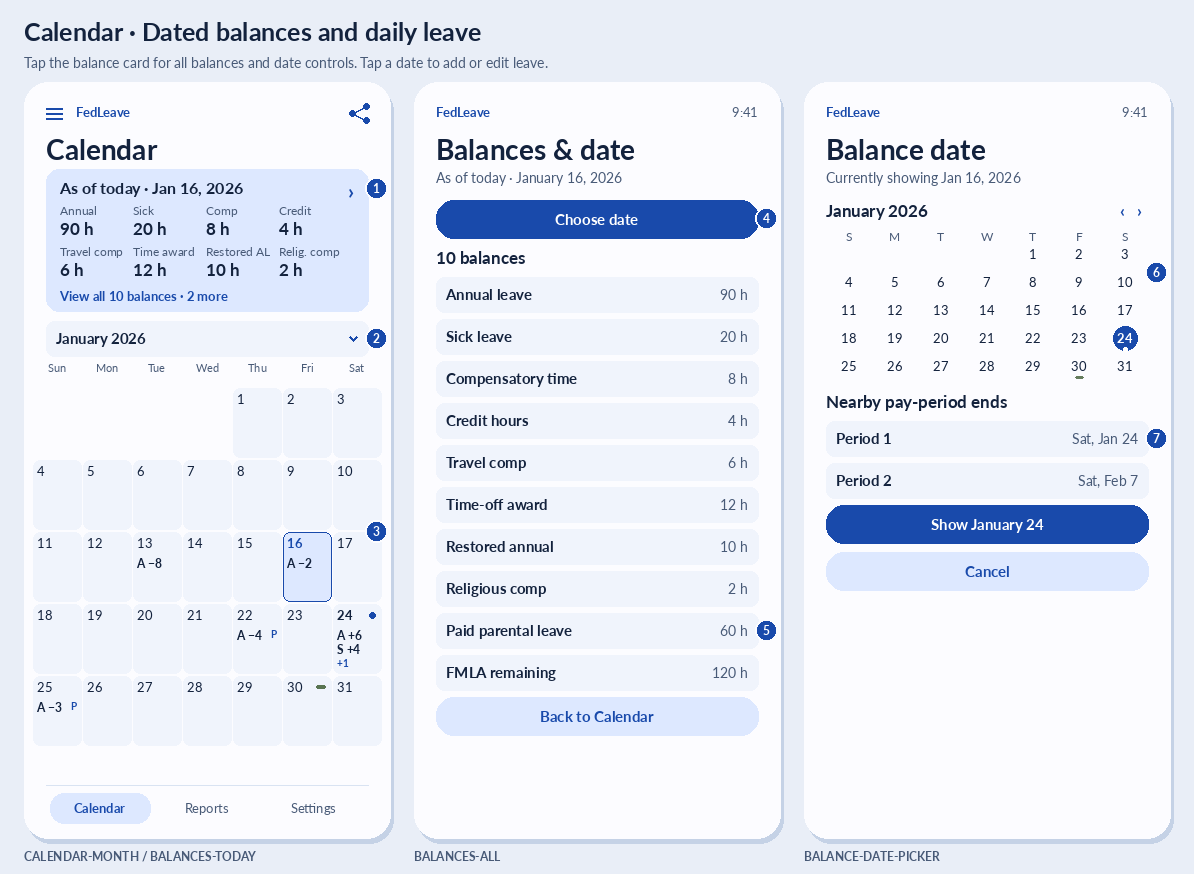
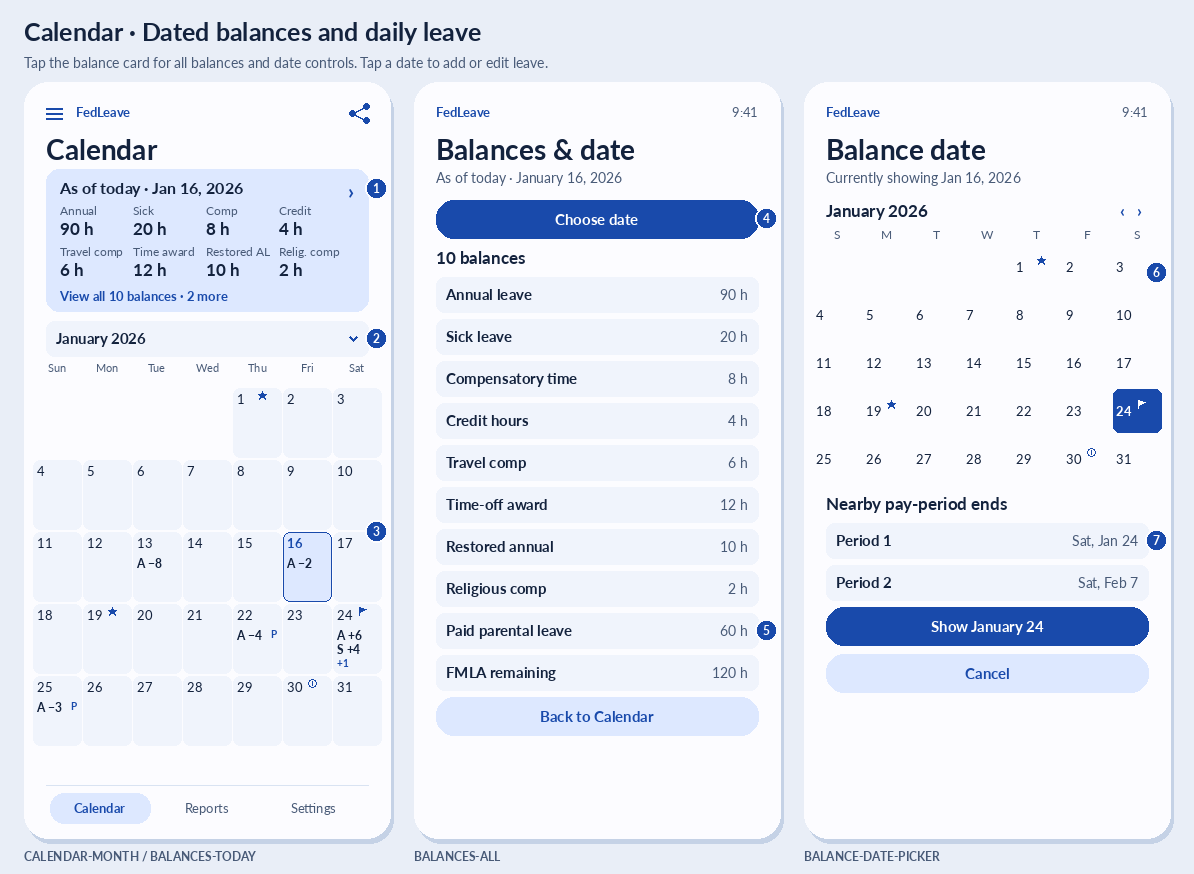
Specify and illustrate Android Calendar date markers
Place holiday, payday, pay-period end and leave-year end symbols beside the date in the month grid and picker. Keep overlapping events distinct and carry their full descriptions into the day view and TalkBack.

Define saved schedule and local holiday sources, Calendar visibility preferences, accessible fallbacks, and the four-event collision case. Remove the phone Calendar legend and retain the desktop-equivalent shared report with its printed legend.

Verified the four-mark collision image, 25 reproducible boards, 51 parity and acceptance pairs, 459 links, and a full desktop suite with 1,013 passes and 3 skips.

Changed region(s): [[0.6817, 0.3398, 0.9916, 0.8032]]

diff --git a/android/specficaiton/mockups/render.py b/android/specficaiton/mockups/render.py
@@ -215,33 +215,53 @@ class Screen:
         self.mark(item.get("note"), y + 18)
         self.cursor += page.height + 24
 
+    def day_markers(self, item, day, x, y, color=PRIMARY):
+        keys = ("holidays", "paydays", "ends", "year_ends")
+        visible = [key for key in keys if day in item.get(key, ())]
+        for index, key in enumerate(visible):
+            row, column = divmod(index, 2)
+            self.day_marker(key, x + column * 11, y + row * 11, color)
+
+    def day_marker(self, key, x, y, color):
+        if key == "holidays":
+            self.draw.polygon(
+                ((x + 4, y), (x + 5, y + 3), (x + 8, y + 3), (x + 6, y + 5), (x + 7, y + 8),
+                 (x + 4, y + 6), (x + 1, y + 8), (x + 2, y + 5), (x, y + 3), (x + 3, y + 3)),
+                fill=color,
+            )
+        elif key == "paydays":
+            self.draw.ellipse((x, y, x + 8, y + 8), outline=color)
+            self.draw.line((x + 4, y + 2, x + 4, y + 6), fill=color)
+        elif key == "ends":
+            self.draw.line((x + 1, y, x + 1, y + 8), fill=color)
+            self.draw.polygon(((x + 2, y), (x + 8, y + 2), (x + 2, y + 5)), fill=color)
+        elif key == "year_ends":
+            self.draw.rectangle((x, y + 1, x + 8, y + 8), outline=color)
+            self.draw.line((x + 2, y, x + 2, y + 2), fill=color)
+            self.draw.line((x + 6, y, x + 6, y + 2), fill=color)
+            self.draw.line((x + 2, y + 5, x + 4, y + 7, x + 6, y + 4), fill=color)
+
     def calendar(self, item):
         y = self.cursor
         self.text(self.left, y, item["text"], 17, bold=True)
         self.text(self.inner_right - 6, y, "‹   ›", 17, PRIMARY, bold=True, anchor="ra")
-        step = self.width // 7
-        first_row = y + 54
+        left = self.x + 8
+        step = (PHONE_WIDTH - 16) // 7
+        first_row = y + 44
         for column, label in enumerate(("S", "M", "T", "W", "T", "F", "S")):
-            self.text(self.left + step * column + step // 2, y + 36, label, 12, MUTED, anchor="mm")
-        marks = item.get("ends", [])
-        paydays = item.get("paydays", [])
-        for number in range(1, item.get("days", 31) + 1):
-            row, column = divmod(item["start"] + number - 1, 7)
-            x = self.left + step * column + step // 2
-            cell_y = first_row + row * 28
-            active = number == item.get("selected")
+            self.text(left + step * column + step // 2, y + 34, label, 12, MUTED, anchor="mm")
+        for day in range(1, item.get("days", 31) + 1):
+            row, column = divmod(item["start"] + day - 1, 7)
+            x = left + step * column
+            cell_y = first_row + row * 48
+            active = day == item.get("selected")
             if active:
-                self.draw.ellipse((x - 12, cell_y - 12, x + 12, cell_y + 12), fill=PRIMARY)
-            self.text(x, cell_y, str(number), 13, "#FFFFFF" if active else INK, number in marks, "mm")
-            if number in marks:
-                self.draw.ellipse((x - 2, cell_y + 9, x + 2, cell_y + 13), fill="#FFFFFF" if active else PRIMARY)
-            if number in paydays:
-                self.box(x - 4, cell_y + 10, x + 4, cell_y + 12, "#FFFFFF" if active else "#667D5E", 1)
-        self.mark(item.get("note"), first_row + 18)
-        self.cursor = first_row + 28 * ((item["start"] + item.get("days", 31) - 1) // 7) + 25
-        legend = "●  Pay-period end      ▬  Payday" if paydays else "●  Pay-period end"
-        if item.get("show_legend", True):
-            self.paragraph({"text": item.get("legend", legend)}, 12, MUTED, padding=8)
+                self.box(x + 1, cell_y + 1, x + step - 1, cell_y + 44, PRIMARY, 6)
+            self.text(x + 4, cell_y + 15, str(day), 13, "#FFFFFF" if active else INK, bold=active)
+            self.day_markers(item, day, x + 25, cell_y + 12, "#FFFFFF" if active else PRIMARY)
+        self.mark(item.get("note"), first_row + 28)
+        row_count = (item["start"] + item.get("days", 31) + 6) // 7
+        self.cursor = first_row + 48 * row_count + 9
 
     def activity_calendar(self, item):
         left = self.x + 8
@@ -252,8 +272,6 @@ class Screen:
             x = left + column * column_width + column_width // 2
             self.text(x, self.cursor + 5, label, 11, MUTED, anchor="mm")
 
-        period_ends = set(item.get("ends", []))
-        paydays = set(item.get("paydays", []))
         activity = item.get("activity", {})
         for day in range(1, item["days"] + 1):
             row, column = divmod(item["start"] + day - 1, 7)
@@ -265,11 +283,8 @@ class Screen:
                 self.draw.rounded_rectangle(
                     (x + 1, y + 1, x + column_width - 1, y + row_height - 2), 7, outline=PRIMARY, width=1,
                 )
-            self.text(x + 5, y + 4, str(day), 13, PRIMARY if today else INK, today or day in period_ends)
-            if day in period_ends:
-                self.draw.ellipse((x + 37, y + 9, x + 43, y + 15), fill=PRIMARY)
-            if day in paydays:
-                self.box(x + 34, y + 10, x + 43, y + 13, "#597451", 1)
+            self.text(x + 5, y + 4, str(day), 13, PRIMARY if today else INK, bold=today)
+            self.day_markers(item, day, x + 26, y + 4)
 
             entries = activity.get(str(day), [])
             for index, entry in enumerate(entries[:2]):

diff --git a/android/specficaiton/sections/calendar-date-markers.md b/android/specficaiton/sections/calendar-date-markers.md
@@ -1,0 +1,28 @@
+# Calendar date markers
+
+Place schedule symbols immediately to the right of the day number in the month grid and the balance-date picker. The phone Calendar uses these symbols with full descriptions in the day editor and TalkBack. The desktop-equivalent printed PDF retains its own abbreviations and legend. [Calendar and picker](calendar-main-screen.md) · [Shared PDF](calendar-menu-and-pdf.md#share-the-displayed-month)
+
+| Order | Symbol | Spoken and written description | Date source |
+| --- | --- | --- | --- |
+| 1 | Five-point star | Holiday, followed by the name | Read the compatible local holiday data for the displayed dates' calendar years. Match the holiday's display, observed, then actual date in that order. Show a holiday once per displayed date and speak each name if more than one applies. |
+| 2 | Coin, drawn as a circle with a vertical stroke | Payday | For each validated period, add the display preference's payday offset in calendar days to its end date, as the desktop GUI does. Include matches from adjacent periods across month and leave-year boundaries. The January fixture uses a six-day offset. |
+| 3 | Flag on a pole | Pay-period end, followed by the period number if known | Use the period's stored inclusive end date. Nearby closing-date shortcuts use the same schedule. |
+| 4 | Check inside a calendar outline | Leave-year end, followed by the leave year | Match the exact local date to the validated ledger's inclusive `leave_year_end`. This often falls in January. |
+
+Respect **Show Holidays**, **Show Paydays**, and **Show Pay Period Ends** in the visible markers and their equivalent accessible descriptions. The leave-year-end marker is always visible when a known year closes. Visibility settings affect rendering and descriptions. The same stored periods still supply closing-date shortcuts. Use only flags derived for the dates being shown. A missing holiday cache or schedule cannot create estimated markers. A missing schedule still follows the Calendar loading and recovery rules. [Desktop holiday lookup](../../../src/fedleave/commands/balances.py#L96) · [Desktop GUI display settings and payday rules](../../../src/fedleave_gui/main_window.py#L2439) · [Local holiday preferences](reports-data-and-preferences.md)
+
+## Placement and overlapping markers
+
+- Place up to two symbols per row, left to right in the table order, with a second row when needed. Keep the date number visible on the left and activity beneath that header. Use outlines and shapes that distinguish the four symbols in light, dark and selected states. The symbols carry no separate touch actions.
+- Keep all applicable symbols. For example, January 9, 2027 has a flag and checked calendar at the same time. For four markers, show star and coin above flag and checked calendar. The symbol count stays independent of the **+N** for hidden leave activity.
+- The cell or day row is the touch and focus target. On a width or font scale that cannot preserve legibility and 48 dp targets for the grid, use the full-width day list. In that list give each applicable event its text label. Use the same fallback within the balance picker, with rows selecting a cutoff date.
+- Read the local date first in the accessibility label, then visible events in the table order, then leave activity if present. Example for the Calendar cell is **Saturday, January 9, 2027. Pay-period end, period 26. Leave-year end, leave year 2026. 6 hours annual leave earned. 4 hours sick leave earned.** The picker uses the date and events and exposes its selected state. The editor prints those event names before its leave activity. Tapping a Calendar date edits that date and leaves the balance cutoff alone.
+
+![January shows payday and holiday together on January 1, period end and leave-year end together on January 9, and both event names in the January 9 day editor](../mockups/calendar-markers.png)
+
+| Callout | Interaction and states |
+| --- | --- |
+| 1 | At the leave-year boundary the grid contains two separate icons to the right of January 9. The main balance card still shows its own cutoff. |
+| 2 | Open January 9 to read period 26 and the 2026 leave-year close above the existing activity. |
+
+The January 2026 Calendar mockup shows a star for New Year's Day and Martin Luther King Jr. Day, a flag for January 24, and a coin for January 30. The January 2027 board uses the same leave year through January 9, plus illustrative holiday and schedule data for the displayed month. Rebuild with `python android/specficaiton/mockups/render.py android/specficaiton/mockups/calendar-markers.json`. [Acceptance test](../testPlan.md#calendar-acceptance-cases) · [Editable marker mockup](../mockups/calendar-markers.json)

diff --git a/android/specficaiton/sections/calendar-menu-and-pdf.md b/android/specficaiton/sections/calendar-menu-and-pdf.md
@@ -4,15 +4,13 @@ Calendar uses the **Menu** icon at the upper left and the **Share calendar PDF**
 
 ## Open the Calendar menu
 
-![Calendar menu open showing Today, Calendar legend, Transactions, and Preview month PDF](../mockups/calendar-menus.png)
+![Calendar menu open showing Today, Transactions, and Preview month PDF](../mockups/calendar-menus.png)
 
 | Callout | Interaction | Requirements |
 | --- | --- | --- |
-| 1 | The Menu icon opens four commands. **Today** resets the calendar month and balance date. **Calendar legend** opens an explanation for the Calendar. **Transactions** opens history. **Preview month PDF** opens the displayed month's PDF for inspection or printing. | `CAL-MENU-01`, `CAL-BAL-05`, `CAL-HISTORY-01` |
+| 1 | The Menu icon opens three commands. **Today** resets the calendar month and balance date. **Transactions** opens history. **Preview month PDF** opens the displayed month's PDF for inspection or printing. | `CAL-MENU-01`, `CAL-BAL-05`, `CAL-HISTORY-01` |
 
-![Calendar legend with schedule markers and leave activity](../mockups/calendar-legends.png)
-
-The Calendar grid uses the full space available beneath the balances and month controls. The legend is available from the menu and closes back to the same month and balance date. It explains category abbreviations, signed hours, planned entries, and counts for additional entries. Include the codes used in the current grid. TalkBack announces the markers and entry meanings when someone selects a day.
+The grid uses the available space below the balances and month controls. Open a day to read the schedule events and leave entries. [Date markers](calendar-date-markers.md)
 
 ## Share the displayed month
 
@@ -24,7 +22,7 @@ The Calendar grid uses the full space available beneath the balances and month c
 | 2 | Tap the upper-right Share icon on Calendar or its PDF preview. Prepare the PDF for the displayed month and open Android's Sharesheet directly. | `CAL-SHARE-01` |
 | 3 | Android shows `fedleave-YYYY-MM.pdf` to share. The user chooses the receiving app. Back returns to the screen that launched Share with its month and balance date intact. | `CAL-SHARE-01` |
 
-Use the desktop **Save Month as PDF** report as the reference for the layout and values. Preserve the landscape page, month grid, leave activity and date markers, pay-period tables, **As of Today** balances, applicable year-end figures, and the complete printed abbreviations. The phone menu legend affects the main screen. The PDF keeps the desktop report legend. Report balances follow the desktop report's Today cutoff even when the main balance card is set to a different date. Compare rendered PDFs at a matched page size and with the same fixture and report clock. [Desktop PDF generation](../../../src/fedleave_gui/main_window.py#L2234) · [Report renderer](../../../src/fedleave_month_report_graphic/report.py#L440)
+Use the desktop **Save Month as PDF** report as the reference for the layout and values. Preserve the landscape page, month grid, leave activity and date markers, pay-period tables, **As of Today** balances, applicable year-end figures, and the complete printed abbreviations. The PDF keeps the desktop report legend. Report balances follow the desktop report's Today cutoff even when the main balance card is set to a different date. Compare rendered PDFs at a matched page size and with the same fixture and report clock. [Desktop PDF generation](../../../src/fedleave_gui/main_window.py#L2234) · [Report renderer](../../../src/fedleave_month_report_graphic/report.py#L440)
 
 The image in the mockup is a page rendered from the desktop app's **Save Month as PDF** path using the January 2026 Calendar fixture with Today fixed to January 16. The inspected sample is one landscape A4 page. Tap the reference for the full-size view. [Full-size desktop PDF reference](../mockups/calendar-desktop-pdf-reference.png) · [January fixture](../testPlan.md#calendar-balance-fixture)
 

diff --git a/android/specficaiton/testPlan.md b/android/specficaiton/testPlan.md
@@ -59,7 +59,8 @@ Substitute each date in the expected-results table for the balance command. The 
 | `T-CAL-BAL-07` | Request January 4, 2027 using this fixture and identify the leave year used by the calculation. | Use the 2026 leave year because the date falls in its stored range. Show annual 233 h and sick 120 h through January 4. |
 | `T-CAL-BAL-08` | At normal text size use the ten values on the Calendar mockup. Check the preview, tap the card, and scroll to Paid parental leave and FMLA remaining. Confirm Jan 24, cancel a different choice, and return to Calendar. Repeat with exactly eight values, one unavailable value, and large text on a compact handset. | Eight labeled values appear in two rows at the reference size and **View all 10 balances · 2 more** is spoken and visible. All ten values appear in one scrollable list. The card and list match the confirmed cutoff and Cancel preserves it. With exactly eight visible there is no overflow count. Larger text preserves full amounts and exposes any additional hidden count. |
 | `T-CAL-NAV-01` | Select January 13 in the balance picker, navigate to February in the main calendar, and choose an editing day. | The calendar follows the navigation. The panel continues showing January 13 and its figures until the user confirms another balance date or uses **Menu > Today**. |
-| `T-CAL-MENU-01` | In the selected layout, browse to a different month and choose a dated balance. Open the upper-left menu, read the legend, and dismiss it. Open the menu again and use Today. | The legend explains the displayed markers and any leave codes. Dismissal preserves month and cutoff. Today resets both. Menu remains readable and actionable with larger text and TalkBack. |
+| `T-CAL-MARK-01` | Seed the Calendar fixture and local 2026 holidays. Inspect Jan 1 and 19, Jan 24 and Jan 30 in the grid and date picker. Browse to Jan 9, 2027 and open day detail. Check default and large text, TalkBack and the three marker visibility settings. In an isolated developer fixture put a synthetic holiday on Jan 9 and set payday offset to zero to produce all four events on the same day. | Each of the four shapes is distinct and appears to the right of the date. Jan 9 has both closing markers, shows the event names and leaves the balance cutoff unchanged. All four fit in the collision fixture. Their spoken descriptions stay ordered, day actions stay reachable, and markers are independent of extra leave entries. Hiding one event removes its icon and equivalent accessible text while preserving the other markers. |
+| `T-CAL-MENU-01` | Browse to a different month and choose a dated balance. Open and dismiss the upper-left menu, then reopen it and use Today. | The menu shows Today, Transactions and Preview month PDF. Dismissal preserves month and cutoff. Today resets both. Menu remains readable and actionable with larger text and TalkBack. |
 | `T-CAL-SHARE-01` | Display January with Today fixed to Jan 16. Set the balance card to Jan 13 and tap the top-right Share icon. Read the shared document in a test receiver and compare it with the desktop PDF printed from the same fixture and paper size. Repeat with a different month and with cancellation or a simulated render failure. | The icon opens the native Sharesheet with an `application/pdf` file named `fedleave-2026-01.pdf` for January. The landscape page matches the desktop grid, markers, pay-period tables, Today balances of 90 h annual and 20 h sick, applicable year-end figures, and abbreviations. The other month shares its own report. Cancellation or failure preserves both selections and ledger bytes. |
 
 After the existing-year review and navigation cases, compare a snapshot of the canonical datastore before and after. The date picker and balance calculations leave its contents intact. [Calendar requirements](sections/calendar-balances.md#requirements)

diff --git a/android/specficaiton/parity.md b/android/specficaiton/parity.md
@@ -15,7 +15,8 @@ This matrix compares Android with the [pinned desktop build](specification.md#pr
 | `CAL-BAL-07` | The desktop balance command can resolve a leave year from a date by checking the stored start and end dates. | Resolve the selected date against leave-year boundaries, including January days belonging to the preceding leave year. | [BALANCE-DATE-PICKER](mockups/calendar-compact-main.png), [BALANCES-DATED](mockups/calendar-date-states.png) | [T-CAL-BAL-07](testPlan.md#calendar-acceptance-cases) | — |
 | `CAL-BAL-08` | The desktop window has room for more balance categories. | Preview eight and give one-tap access to the full scrollable list and date controls. | [BALANCES-TODAY](mockups/calendar-compact-main.png), [BALANCES-ALL](mockups/calendar-compact-main.png) | [T-CAL-BAL-08](testPlan.md#calendar-acceptance-cases) | [Balance ordering and overflow](sections/calendar-balances.md#preview-and-full-list). |
 | `CAL-NAV-01` | **Previous**, **Next**, and month selection browse the calendar. Only the date selector and **Today** change the selected balance date. | Calendar navigation preserves the selected balance date. | [CALENDAR-MONTH](mockups/calendar-compact-main.png), [CALENDAR-MONTH-SELECTOR](mockups/calendar-compact-month.png), [BALANCES-DATED](mockups/calendar-date-states.png) | [T-CAL-NAV-01](testPlan.md#calendar-acceptance-cases) | [Selected Calendar](sections/calendar-main-screen.md). |
-| `CAL-MENU-01` | Desktop Calendar groups navigation and report commands in menus and shows a marker legend. | A top-left menu opens Today, Calendar legend, Transactions, and month PDF preview. | [CALENDAR-MENU](mockups/calendar-menus.png), [CALENDAR-LEGEND](mockups/calendar-legends.png) | [T-CAL-MENU-01](testPlan.md#calendar-acceptance-cases) | — |
+| `CAL-MARK-01` | Desktop Calendar distinguishes holidays, paydays and period ends and stores the leave-year closing date. | Place four distinct event shapes to the right of the date. Preserve concurrent markers and give their full descriptions in the editor and TalkBack. | [CALENDAR-MONTH](mockups/calendar-compact-main.png), [CALENDAR-YEAR-END](mockups/calendar-markers.png), [CALENDAR-DAY-MARKERS](mockups/calendar-markers.png) | [T-CAL-MARK-01](testPlan.md#calendar-acceptance-cases) | [Marker specification](sections/calendar-date-markers.md). |
+| `CAL-MENU-01` | Desktop Calendar groups navigation and report commands in menus and shows a marker legend. | A top-left menu opens Today, Transactions and month PDF preview. | [CALENDAR-MENU](mockups/calendar-menus.png) | [T-CAL-MENU-01](testPlan.md#calendar-acceptance-cases) | — |
 | `CAL-SHARE-01` | Desktop Calendar's **Save Month as PDF** prints the displayed month through its landscape report renderer. | The top-right Share icon prepares that calendar PDF and opens the Android Sharesheet. | [CALENDAR-PDF-PREVIEW](mockups/calendar-pdf-share.png), [CALENDAR-PDF-SHARE](mockups/calendar-pdf-share.png) | [T-CAL-SHARE-01](testPlan.md#calendar-acceptance-cases) | [Desktop PDF reference](sections/calendar-menu-and-pdf.md#share-the-displayed-month). |
 
 ### Desktop evidence for these rows

diff --git a/android/specficaiton/sections/calendar-balances.md b/android/specficaiton/sections/calendar-balances.md
@@ -12,7 +12,7 @@ Calendar gives the user one **Balances** panel. They can see their position toda
 | --- | --- |
 | `CAL-BAL-01` | A fresh open of Calendar starts on the device's current local date. The panel reads **As of today** and shows the date and balances in hours. Follow the device's local date while Today is active. |
 | `CAL-BAL-02` | Tap anywhere on the balance card to open **Balances & date** at the current cutoff. **Choose date** opens the picker. Confirmation updates the full list and card together. Dismissing the picker preserves the prior date, amounts and list position. |
-| `CAL-BAL-03` | Mark a pay-period end from the stored schedule in the month grid and picker. Announce **Pay-period end** in the date's accessible label. Provide nearby period ends as quick choices with the date and period number. A selected end date shows that day's closing balance in the same panel. Period details provide the number, start and end dates, payday, and earned and used hours by category. Period activity opens from the full balance view. |
+| `CAL-BAL-03` | Use the flag from the [date marker table](calendar-date-markers.md) for a pay-period end in the month grid and picker. Announce **Pay-period end** in the date's accessible label. Provide nearby period ends as quick choices with the date and period number. A selected end date shows that day's closing balance in the same panel. Period details provide the number, start and end dates, payday, and earned and used hours by category. Period activity opens from the full balance view. |
 | `CAL-BAL-04` | For a date later than today, show **Projected balance** and the exact selected date. Use the calculation for that day, with effective scheduled activity and accrued hours through that date. |
 | `CAL-BAL-05` | **Menu > Today** restores the current month, active calendar day, and balance date. A fresh open also starts on today after a previous manual date choice. |
 | `CAL-BAL-06` | Keep a balance result paired with the date it covers. If a requested date cannot be loaded, show it with an unavailable state and a retry or date-change action. Carry forward applicable warnings and show an unavailable category value as unavailable. A slow older request must never replace the result for the current selection. |
@@ -37,7 +37,7 @@ Calendar gives the user one **Balances** panel. They can see their position toda
 
 | Screen or state ID | Key visual or interaction |
 | --- | --- |
-| `CALENDAR-MONTH` | Current month, a month selector, tappable day cells, and separate markers for pay-period end and payday. |
+| `CALENDAR-MONTH` | Current month, a month selector, tappable days, daily leave, and schedule markers. |
 | `BALANCES-TODAY` | A tappable preview with today's date and up to eight exact values. The main-screen menu contains **Today**. |
 | `BALANCES-ALL` | Full scrollable list with the current cutoff, precise amounts and **Choose date**. |
 | `BALANCE-DATE-PICKER` | Date grid with the current selection, ordinary days, marked pay-period ends, nearby period shortcuts, and cancellation. |

diff --git a/android/specficaiton/sections/implementation-milestones.md b/android/specficaiton/sections/implementation-milestones.md
@@ -12,7 +12,7 @@ Start each milestone or subset with a [self-contained implementation brief](qual
 | I02. Bridge packaging experiment | I01 | Build the smallest Python library call on ARM64 and the development emulator. Verify offline startup, native packaging, size and timings, and a dated balance with the desktop fixture. Confirm or revisit Chaquopy and the API floor. [Core experiment](core-and-compatibility.md#proof-of-concept-exit-conditions) |
 | I03. Read-only core boundary | I02 | Extract the cohesive Calendar, period and balance operations behind the desktop adapters. Characterize extraction with fixed dates and golden outputs. Compare desktop CLI interfaces and run the existing tests. |
 | I04. Private JSON store | I02–I03 | Implement app-private storage, canonical schema reads, one writer and complete candidate recovery. Import fixture input through a developer test entry. Verify no mutation from a read, resume after interruption, and check update and process-restart behavior. [Storage](device-storage.md) |
-| I05. Calendar navigation and dated balances | I03–I04 | Implement the Calendar main screen, bottom navigation, balance picker, menu and legend, Today and period close, calendar day selection, and unavailable feedback. Pass `T-CAL-BAL-01` through `08`, `T-CAL-NAV-01`, and `T-CAL-MENU-01`. |
+| I05. Calendar navigation and dated balances | I03–I04 | Implement the Calendar main screen, bottom navigation, balance picker, menu and date markers, Today and period close, calendar day selection, and unavailable feedback. Pass `T-CAL-BAL-01` through `08`, `T-CAL-NAV-01`, `T-CAL-MARK-01`, and `T-CAL-MENU-01`. |
 | I06. First use and manual year setup | I04–I05 | Implement welcome, manual date, period and opening review, and prompt from a missing current or future date. An empty store starts with manual schedule confirmation or restore. Require cancellation and exactly-once setup cases. |
 | I07. Carryover creation | I06 | Implement adjacent predecessor review, policy caps, fingerprint and validation for applying a new year. Verify time boundaries, stale previews, lots carried once and unchanged source ledgers. |
 | I08. Edits and individual entries | I04–I06 | Implement edit day and single entry including status, quarter-hour entry, confirmation, comment preservation, system-row protection, and draft recovery. Pass the day editing cases. |

diff --git a/android/specficaiton/sections/calendar-main-screen.md b/android/specficaiton/sections/calendar-main-screen.md
@@ -8,7 +8,7 @@ The owner selected this layout with daily leave inside the month grid. Calendar 
 | --- | --- |
 | 1 | The whole card opens **Balances & date** at the same cutoff. The main screen shows two rows of four labeled amounts at the reference size. When two amounts are hidden, the card reads **View all 10 balances · 2 more**. TalkBack announces the date, visible balances, additional count, and action **Open balances and date**. |
 | 2 | Tap the month and year to choose a month. Selecting a month changes the grid while preserving the balance cutoff. |
-| 3 | Every day cell opens the editor for its date. A minus sign shows hours used, a plus sign shows hours earned, and **P** marks a planned entry. A day with no entries opens the same editor ready to add one. **Menu > Calendar legend** explains the symbols. TalkBack reads the date, category, amounts, status and schedule markers. |
+| 3 | Every day cell opens the editor for its date. A minus sign shows hours used, a plus sign shows hours earned, and **P** marks a planned entry. A day with no entries opens the same editor ready to add one. The day editor and TalkBack describe the symbols, leave categories, amounts, and status. [Date marker rules](calendar-date-markers.md) |
 | 4–5 | The full view displays the cutoff and a **Choose date** control above the scrollable list. The list includes both values omitted by the card, with full labels and exact amounts. Back returns to Calendar at its prior month and shows the currently confirmed balance cutoff. |
 | 6–7 | Choose an ordinary date or a nearby pay-period end, then confirm to update the full list and card to the same result. Back or Cancel returns to the full list with its previous cutoff and values. |
 

diff --git a/android/specficaiton/specificationPlan.md b/android/specficaiton/specificationPlan.md
@@ -59,7 +59,7 @@ Break the first inventory into groups that can be finished independently.
 
 Start with a navigation sketch for the most frequent jobs. Compare candidates such as **Today**, **Calendar**, and **Reports**, with less frequent settings and maintenance actions grouped separately. Walk through a few realistic tasks before choosing a structure. Check how quickly a new user can see a balance, enter leave, correct an entry, share a chart, and share a backup.
 
-Mock up a single **Balances** panel for Android Calendar. A fresh open shows **As of today** with the date. Tap the balance card to see the complete list and open the date picker, where pay-period end dates are bold and labeled. Try nearby period ends as quick choices. Any selected date updates the same panel, and **Today** resets it. Label future balances as projections. Explore an expandable section for the selected pay period's earned and used hours. Annotate these states and write acceptance checks for the default, an ordinary day, a pay-period end, a projected date, and the return to Today.
+Mock up a single **Balances** panel for Android Calendar. A fresh open shows **As of today** with the date. Tap the balance card to see the complete list and open the date picker, where pay-period end dates are marked with flags and accessible labels. Try nearby period ends as quick choices. Any selected date updates the same panel, and **Today** resets it. Label future balances as projections. Explore an expandable section for the selected pay period's earned and used hours. Annotate these states and write acceptance checks for the default, an ordinary day, a pay-period end, a projected date, and the return to Today.
 
 ### Calendar design reference
 

diff --git a/android/specficaiton/specification.md b/android/specficaiton/specification.md
@@ -27,7 +27,8 @@ For a visual review, start with the [Calendar mockups](sections/calendar-screens
 | [Calendar balances](sections/calendar-balances.md) | One date-driven balance panel, its screen states, and the rules for today, historical dates, and pay-period ends. |
 | [Phone navigation and Calendar screens](sections/calendar-screens.md) | Annotated first use, balance states, Calendar navigation, day editing, history and corrections. |
 | [Calendar main screen](sections/calendar-main-screen.md) | Tappable balances, date and month selection, daily activity, and direct day editing. |
-| [Calendar menu and PDF sharing](sections/calendar-menu-and-pdf.md) | Calendar menu, on-demand legend, and direct sharing of the desktop month PDF. |
+| [Calendar date markers](sections/calendar-date-markers.md) | Symbols, date sources, concurrent events, and accessible descriptions. |
+| [Calendar menu and PDF sharing](sections/calendar-menu-and-pdf.md) | Calendar menu and direct sharing of the desktop month PDF. |
 | [Ledger and leave years](sections/ledger-and-leave-years.md) | Missing-year setup, editing and history, accrual, carryover, expiration, and PPL/FMLA. |
 | [Acceptance plan](testPlan.md) | Synthetic fixtures, desktop reference results, phone workflow tests, and storage gates. |
 | [Reports, data, and preferences](sections/reports-data-and-preferences.md) | Report calculations and display, compatible sharing and restore, preferences, help, and platform equivalents. |

diff --git a/android/specficaiton/passdowns/17-calendar-date-markers.md b/android/specficaiton/passdowns/17-calendar-date-markers.md
@@ -1,0 +1,7 @@
+# Calendar date markers checkpoint
+
+- The chosen Calendar and balance picker use a star, coin, flag, and checked calendar for holidays, payday, pay-period close, and leave-year close. All markers may coexist to the right of the date. The day editor and TalkBack speak the meanings. [Rules and mockups](../sections/calendar-date-markers.md)
+- The main Android Calendar has no legend. The printed desktop-equivalent PDF keeps its printed legend. [Calendar menu and Share](../sections/calendar-menu-and-pdf.md)
+- Verified all four marker shapes together in a synthetic January 9 mockup at the reference width. The 25 boards rebuilt, 51 parity entries matched acceptance cases, and 459 links resolved in this checkpoint. The full desktop suite passed outside the restricted test sandbox with 1,013 passes and 3 skips. The five-hour window showed 62% remaining during checkpoint verification.
+- I05 owns date-marker rendering and the read-only day descriptions. I08 wires the edit and save behavior. [Marker acceptance](../testPlan.md#calendar-acceptance-cases)
+- Next, reorganize Android planning, specification, artwork, implementation briefs and evidence into navigable folders.

diff --git a/android/specficaiton/passdowns/14-calendar-menu-and-pdf.md b/android/specficaiton/passdowns/14-calendar-menu-and-pdf.md
@@ -1,6 +1,6 @@
 # Passdown 14 — Calendar menu and PDF sharing
 
-November 21, 2026. Calendar uses Menu at upper left and Share at upper right. **Today** and **Calendar legend** live in the menu. The grid uses the remaining space for daily leave. [Calendar main screen](../sections/calendar-main-screen.md)
+November 21, 2026. Calendar uses Menu at upper left and Share at upper right. **Today** lives in the menu. The later marker checkpoint gives event descriptions in the day editor and TalkBack. [Date marker update](17-calendar-date-markers.md). The grid uses the remaining space for daily leave. [Calendar main screen](../sections/calendar-main-screen.md)
 
 - The top-right Calendar Share action prepares the displayed month's desktop-style PDF and invokes Android's Sharesheet. A menu action opens the same page for preview or printing. Reports use the same top-right Share placement.
 - The preview uses an actual desktop PDF rendered via **Save Month as PDF** with the fixed January 2026 synthetic fixture. The single landscape page includes the full pay-period and balances tables and printed legend. [Menu, legend, and PDF mockups](../sections/calendar-menu-and-pdf.md)
